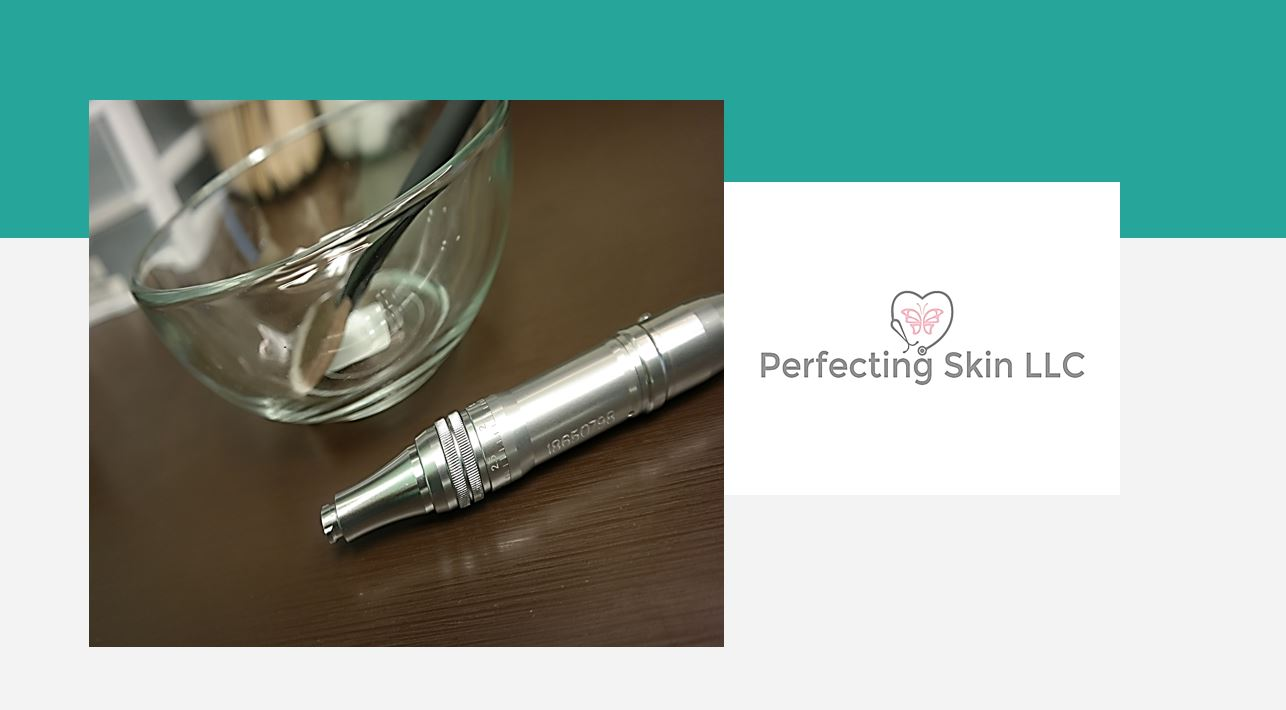
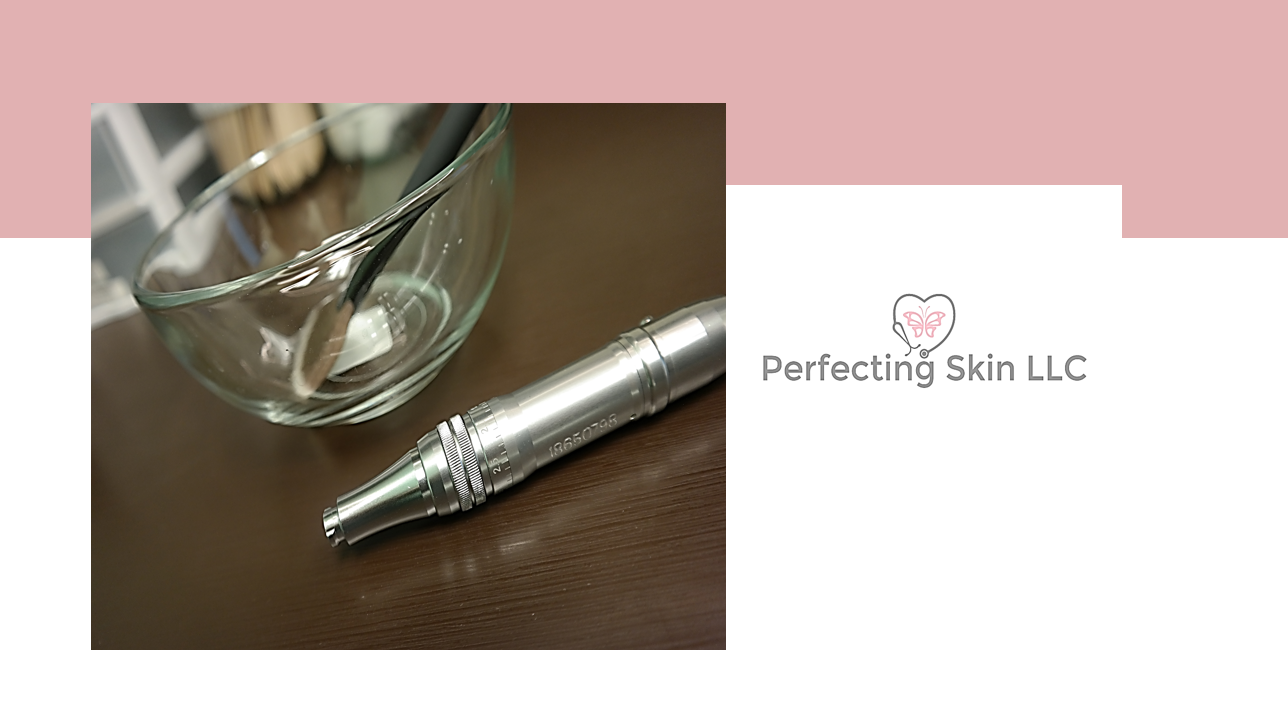
update

diff --git a/index.html b/index.html
@@ -5,9 +5,7 @@
     <meta charset="UTF-8">
     <meta name="viewport" content="width=device-width, initial-scale=1.0">
     <meta http-equiv="X-UA-Compatible" content="ie=edge">
-
     <title>Perfecting Skin</title>
-
     <link rel="stylesheet" type="text/css" media="screen" href="style.css" />
     <link rel="stylesheet" href="https://stackpath.bootstrapcdn.com/bootstrap/4.3.1/css/bootstrap.min.css"
         integrity="sha384-ggOyR0iXCbMQv3Xipma34MD+dH/1fQ784/j6cY/iJTQUOhcWr7x9JvoRxT2MZw1T" crossorigin="anonymous">
@@ -20,25 +18,28 @@
     <script src="https://stackpath.bootstrapcdn.com/bootstrap/4.3.1/js/bootstrap.min.js"
         integrity="sha384-JjSmVgyd0p3pXB1rRibZUAYoIIy6OrQ6VrjIEaFf/nJGzIxFDsf4x0xIM+B07jRM"
         crossorigin="anonymous"></script>
-
+    <link href="https://fonts.googleapis.com/css?family=Alegreya+SC|Lato&display=swap" rel="stylesheet">
     <style>
         body {
-            background-color: rgb(240, 240, 239);
+            background-color: rgba(225, 177, 178);
             font-family: 'Literata', serif;
         }
 
-        #address {
-            text-align: center;
-            margin-left: 50px;
+        #container {
+            background-position: center;
+            background-repeat: no-repeat;
+            background-size: cover;
+            position: relative;
         }
     </style>
-
 
 </head>
 
 <body>
+
     <nav class="navbar fixed-top navbar-expand-lg navbar-light bg-light">
-        <img src="images/Brand_Name_Small.jpg" alt="Small Brand Name" class="rounded" height=auto width=auto>
+        <h5 style="color:grey;"><strong>(602) 376-8797 </strong> </h5>
+       
         <a class="navbar-brand" href="#"></a>
         <button class="navbar-toggler navbar-toggler-right" type="button" data-toggle="collapse"
             data-target="#navbarNavDropdown" aria-controls="navbarNavDropdown" aria-expanded="false"
@@ -100,48 +101,78 @@
             </ul>
         </div>
     </nav>
-    <br>
-    <br>
-    <br>
-    <br>
-    <br>
-    <div id="container">
-        <div class="container">
 
+    <div id="container" class="bg">
+        <div id="frontpic">
 
-
-            <img src="images/Contact_Us.JPG" alt="Google Map" class="connect-photo" height=150px width=100%>
-            <div>
-                <h4>Hours of Operation:</h4>
-                <h4>Wednesday - Sunday</h4>
-                <h4>8:00 am - 8:00 pm </h4> <br>
-                <br>
-            </div>
-            <div id="container" class="bg">
-
-
-
-                <a href="https://www.google.com/maps/place/5226+N+7th+St+%231A,+Phoenix,+AZ+85014/@33.5141252,-112.067469,17z/data=!3m1!4b1!4m5!3m4!1s0x872b12bc033cd2b5:0xc0147e4f68d00ac9!8m2!3d33.5141252!4d-112.0652803"
-                    target="linkin">
-                    <img src="images/Google Map.PNG" alt="Google Map" class="connect-photo" height=250px width=100%
-
-                </a>
-
-
-                <br>
-                <br>
-                <br>
-                <br>
-
-            </div>
+            <img src="images/Front_Page_Picture.png" ;alt="Bowl and Brush Picture" style="width:100%;">
 
         </div>
+    </div>
+    <div id="frontpagepicture" class="bg" style="background-color:5px rgb(52, 58, 9);">
 
-                <div id="footer">
-            <footer>
+        <div class="bd-example">
+            <div id="carouselExampleCaptions" class="carousel slide" data-ride="carousel">
+                <ol class="carousel-indicators">
+                    <li data-target="#carouselExampleCaptions" data-slide-to="0" class="active"></li>
+                    <li data-target="#carouselExampleCaptions" data-slide-to="1"></li>
+                    <li data-target="#carouselExampleCaptions" data-slide-to="2"></li>
+                </ol>
+                <div class="carousel-inner">
+                    <div class="carousel-item active">
+                        <h1 style="color:whitesmoke; text-align: center"><strong>Eyebrow Microblading</strong></h1>
+                        <img src="images/Front_Page_Eyebrow-Microblading.png" class="rounded mx-auto d-block"
+                            alt="Eyebrow Microblading Picture">
+                        <div class="carousel-caption d-none d-md-block">
+                            <!-- <h1><strong>Eyebrow Microbladding</strong></h1> -->
+                        </div>
+                    </div>
+                    <div class="carousel-item">
+                        <h1 style="color:whitesmoke; text-align: center"><strong>Lip Filler</strong></h1>
+                        <img src="images/FrontPage_Lip_Filler .png" class="rounded mx-auto d-block"
+                            alt="Lip Filler Picture">
 
-                <h6>@2019 Perfecting Skin LLC - All Rights Reserved </h6>
-            </footer>
+                        <div class="carousel-caption d-none d-md-block">
+                            <!-- <h1><strong>Lip Filler</strong></h1> -->
+                        </div>
+                    </div>
+                    <div class="carousel-item">
+                        <h1 style="color:whitesmoke; text-align: center"><strong>Lip Blush</strong></h1>
+                        <img src="images/FrontPage_Lip_Blush.png" class="rounded mx-auto d-block"
+                            alt="Lip Blush Picture">
+
+                        <div class="carousel-caption d-none d-md-block">
+                            <!-- <h1 ><strong>Lip Blush</strong></h1> -->
+
+                        </div>
+                    </div>
+                </div>
+                <a class="carousel-control-prev" href="#carouselExampleCaptions" role="button" data-slide="prev">
+                    <span class="carousel-control-prev-icon" aria-hidden="true"></span>
+                    <span class="sr-only">Previous</span>
+                </a>
+                <a class="carousel-control-next" href="#carouselExampleCaptions" role="button" data-slide="next">
+                    <span class="carousel-control-next-icon" aria-hidden="true"></span>
+                    <span class="sr-only">Next</span>
+                </a>
+            </div>
+        </div>
+
+
+
+    </div>
+
+
+    <div id="container" class="bg">
+
+    </div>
+
+
+    <div id="footer">
+        <footer style="background-color: white">
+
+            <h6>@2019 Perfecting Skin LLC - All Rights Reserved </h6>
+        </footer>
 </body>
 
 </html>

diff --git a/home.html b/home.html
@@ -21,7 +21,7 @@
     <link href="https://fonts.googleapis.com/css?family=Alegreya+SC|Lato&display=swap" rel="stylesheet">
     <style>
         body {
-            background-color: rgba(38, 166, 154);
+            background-color: rgba(225, 177, 178);
             font-family: 'Literata', serif;
         }
 
